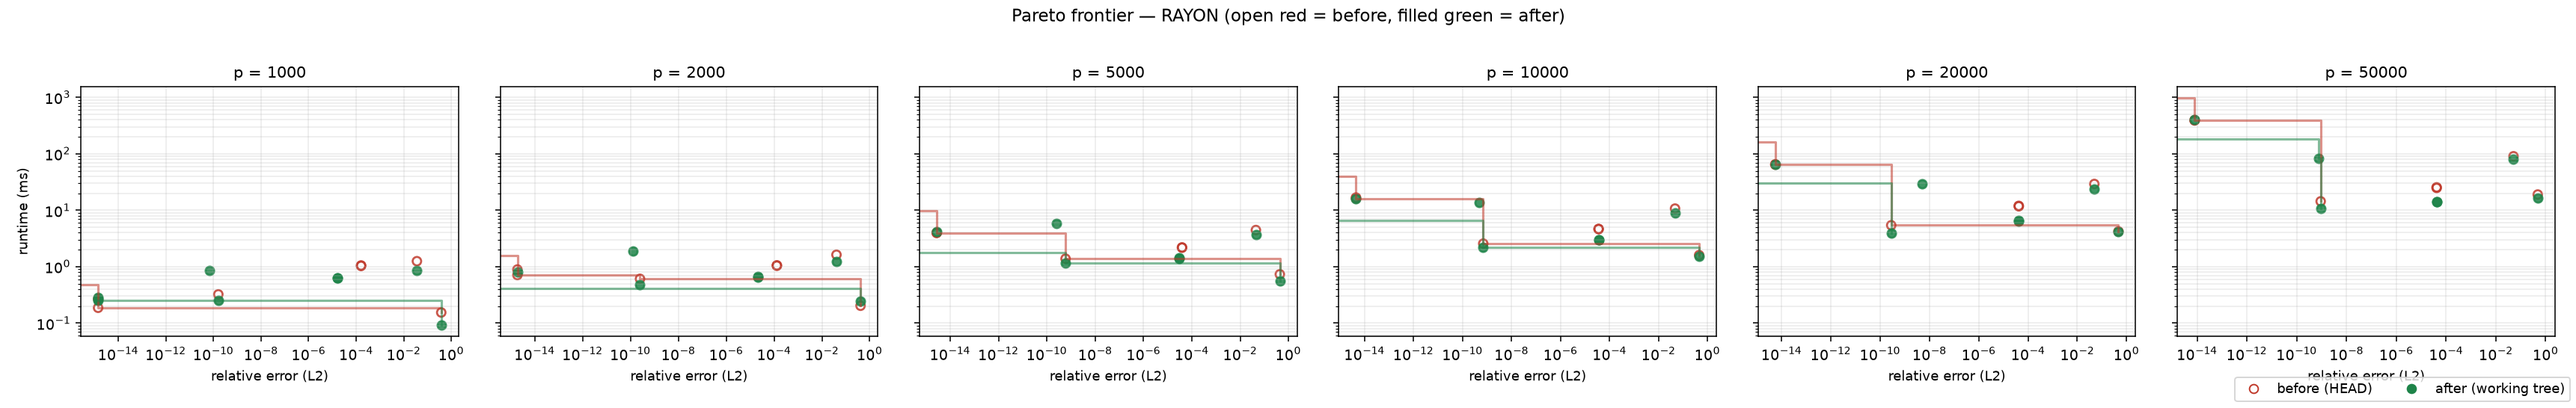
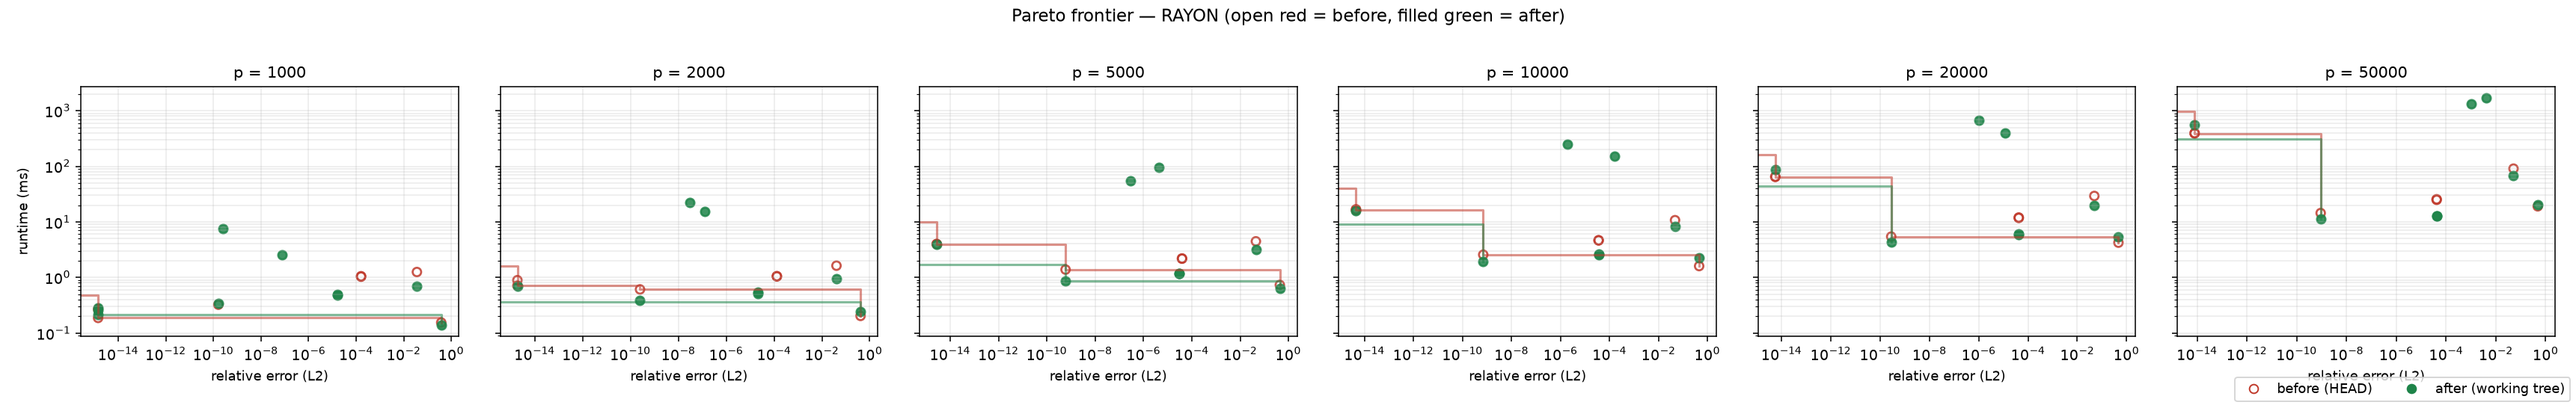
bench(pareto): runtime-vs-p charts and refreshed artifacts with hodlr_rand
New scripts/plot_runtime_vs_p.py renders log-log runtime (y) vs p (x)
charts from the campaign JSONs: one figure per parallelism
(runtime_vs_p_{seq,rayon}.png) and a combined grid replicated per
accuracy band (all methods / err<=1e-8 / err<=1e-5). bench_after.json now
carries the hodlr_rand row; preset table picks unchanged in structure
(chebcode keeps the Rayon speed bins, the exact blocked family keeps
accuracy; fft2/fft5 seq speed bins shuffle with machine noise).

diff --git a/scripts/plot_runtime_vs_p.py b/scripts/plot_runtime_vs_p.py
@@ -1,0 +1,125 @@
+#!/usr/bin/env python3
+"""Runtime-vs-p Pareto charts from docs/pareto/*.json.
+
+Produces, for each parallelism (seq, rayon):
+  - the full method set,
+  - a high-accuracy cut (methods whose worst-case rel L2 error across all
+    measured sizes stays <= ACC_CUT),
+and one combined grid figure (parallelism x accuracy band).
+
+Usage: python3 scripts/plot_runtime_vs_p.py [bench_after.json] [bench_before.json]
+"""
+
+import json
+import sys
+
+import matplotlib
+
+matplotlib.use("Agg")
+import matplotlib.pyplot as plt  # noqa: E402
+
+ACC_CUT = 1e-8
+OUT = "docs/pareto"
+
+
+def load_rows(paths):
+    rows = []
+    for path in paths:
+        with open(path) as fh:
+            data = json.load(fh)
+        label = data.get("meta", {}).get("label", path)
+        for r in data["rows"]:
+            rows.append({**r, "label": label})
+    return rows
+
+
+def latest_per_cell(rows):
+    """Keep the newest measurement per (label-ordering, method, par, p).
+
+    Rows from earlier files are shadowed by later files (campaign order).
+    """
+    priority = {}
+    for i, r in enumerate(rows):
+        priority[r["label"]] = i
+    best = {}
+    for r in rows:
+        key = (r["method"], r["par"], r["p"])
+        if key not in best or priority[r["label"]] > priority[best[key]["label"]]:
+            best[key] = r
+    return list(best.values())
+
+
+def main():
+    paths = sys.argv[1:] or [f"{OUT}/bench_after.json"]
+    rows = latest_per_cell(load_rows(paths))
+    pars = sorted({r["par"] for r in rows})
+    methods = sorted({r["method"] for r in rows})
+
+    def max_err(m):
+        return max(r["err"] for r in rows if r["method"] == m)
+
+    bands = {
+        "all_methods": lambda m: True,
+        f"err_le_{ACC_CUT:g}": lambda m: max_err(m) <= ACC_CUT,
+        f"err_le_1e-5": lambda m: max_err(m) <= 1e-5,
+    }
+
+    for par in pars:
+        sub = [r for r in rows if r["par"] == par]
+        # Full chart.
+        fig, ax = plt.subplots(figsize=(7.0, 4.6))
+        for m in methods:
+            pts = sorted((r["p"], r["ms"]) for r in sub if r["method"] == m)
+            if not pts:
+                continue
+            xs, ys = zip(*pts)
+            ax.plot(xs, ys, marker="o", ms=3.5, label=m)
+        ax.set_xscale("log")
+        ax.set_yscale("log")
+        ax.set_xlabel("taille du portefeuille $p$")
+        ax.set_ylabel("runtime (ms)")
+        ax.set_title(f"Stieltjes — runtime vs p ({par})")
+        ax.grid(True, which="both", alpha=0.25)
+        ax.legend(fontsize=8, ncol=2)
+        fig.tight_layout()
+        out = f"{OUT}/runtime_vs_p_{par}.png"
+        fig.savefig(out, dpi=140)
+        plt.close(fig)
+        print("wrote", out)
+
+    # Grid: parallelism x accuracy band.
+    n_par, n_band = len(pars), len(bands)
+    fig, axes = plt.subplots(
+        n_par, n_band, figsize=(4.2 * n_band, 3.9 * n_par), squeeze=False
+    )
+    for pi, par in enumerate(pars):
+        sub = [r for r in rows if r["par"] == par]
+        for bi, (band, keep) in enumerate(bands.items()):
+            ax = axes[pi][bi]
+            for m in methods:
+                if not keep(m):
+                    continue
+                pts = sorted((r["p"], r["ms"]) for r in sub if r["method"] == m)
+                if not pts:
+                    continue
+                xs, ys = zip(*pts)
+                ax.plot(xs, ys, marker="o", ms=3, label=m)
+            ax.set_xscale("log")
+            ax.set_yscale("log")
+            ax.set_title(f"{par} — {band}", fontsize=10)
+            ax.grid(True, which="both", alpha=0.25)
+            if pi == n_par - 1:
+                ax.set_xlabel("$p$", fontsize=9)
+            if bi == 0:
+                ax.set_ylabel("runtime (ms)", fontsize=9)
+    handles, labels = axes[0][0].get_legend_handles_labels()
+    fig.legend(handles, labels, fontsize=8, ncol=min(8, len(labels)), loc="lower center")
+    fig.tight_layout(rect=[0, 0.06, 1, 1])
+    out = f"{OUT}/runtime_vs_p_grid.png"
+    fig.savefig(out, dpi=140)
+    plt.close(fig)
+    print("wrote", out)
+
+
+if __name__ == "__main__":
+    main()

diff --git a/src/config/pareto_autogen.rs b/src/config/pareto_autogen.rs
@@ -1,5 +1,5 @@
 // AUTO-GENERATED by scripts/build_pareto_table.py — DO NOT EDIT.
-// Source: docs/pareto/bench_after.json (2026-08-23 13:06 UTC);
+// Source: docs/pareto/bench_after.json (2026-08-23 14:27 UTC);
 // Apple M-series (8 P-cores), MP-like spectra, eta = 1/sqrt(p).
 //
 // Preset intents:
@@ -23,29 +23,29 @@ const BINS: &[Bin] = &[
     Bin {
         p_max: 1000,
         speed_seq: StieltjesMethod::ChebCode,
-        speed_par: StieltjesMethod::BlockedTiled,
-        acc_seq: StieltjesMethod::BlockedTiled,
-        acc_par: StieltjesMethod::BlockedTiled,
+        speed_par: StieltjesMethod::AutoVectorized,
+        acc_seq: StieltjesMethod::Blocked,
+        acc_par: StieltjesMethod::AutoVectorized,
     },
     Bin {
         p_max: 2000,
-        speed_seq: StieltjesMethod::Fft2,
-        speed_par: StieltjesMethod::BlockedTiled,
-        acc_seq: StieltjesMethod::Blocked,
-        acc_par: StieltjesMethod::BlockedTiled,
+        speed_seq: StieltjesMethod::Fft5,
+        speed_par: StieltjesMethod::Blocked,
+        acc_seq: StieltjesMethod::BlockedTiled,
+        acc_par: StieltjesMethod::Blocked,
     },
     Bin {
         p_max: 5000,
         speed_seq: StieltjesMethod::Fft2,
         speed_par: StieltjesMethod::ChebCode,
         acc_seq: StieltjesMethod::BlockedTiled,
-        acc_par: StieltjesMethod::Blocked,
+        acc_par: StieltjesMethod::BlockedTiled,
     },
     Bin {
         p_max: 10000,
         speed_seq: StieltjesMethod::Fft5,
         speed_par: StieltjesMethod::ChebCode,
-        acc_seq: StieltjesMethod::BlockedTiled,
+        acc_seq: StieltjesMethod::Blocked,
         acc_par: StieltjesMethod::BlockedTiled,
     },
     Bin {
@@ -53,11 +53,11 @@ const BINS: &[Bin] = &[
         speed_seq: StieltjesMethod::Fft2,
         speed_par: StieltjesMethod::ChebCode,
         acc_seq: StieltjesMethod::BlockedTiled,
-        acc_par: StieltjesMethod::Blocked,
+        acc_par: StieltjesMethod::BlockedTiled,
     },
     Bin {
         p_max: 50000,
-        speed_seq: StieltjesMethod::Fft5,
+        speed_seq: StieltjesMethod::Fft2,
         speed_par: StieltjesMethod::ChebCode,
         acc_seq: StieltjesMethod::Blocked,
         acc_par: StieltjesMethod::BlockedTiled,
